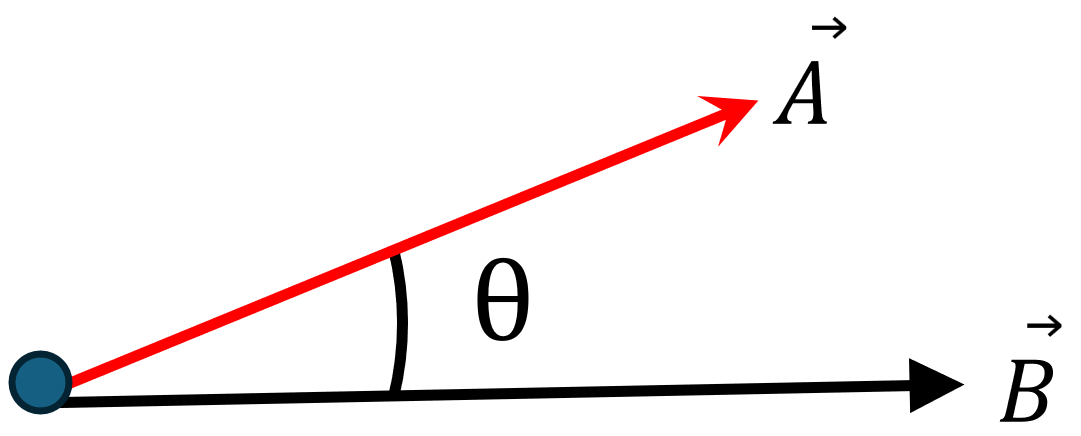
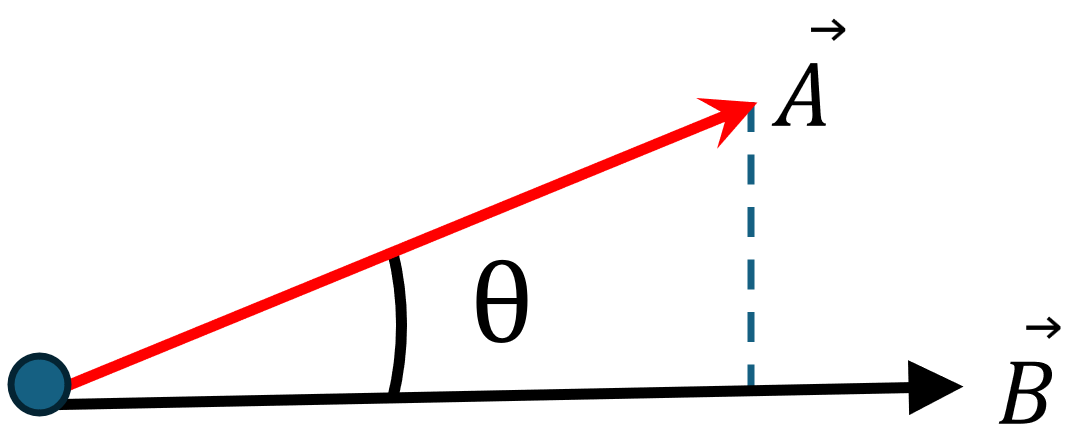
Nuevas preguntas teoría

diff --git a/Class_Teoria.py b/Class_Teoria.py
@@ -16,12 +16,12 @@ class Theory:
 
     #Function to filter the theory questions according to the user's selection
     def filtrar_preguntas_teoria(preguntas_teoria, topic=None, subtopic=None):
-        preguntas_filtradas_teoria = [
+        conceptuales_filtradas = [
             pregunta for pregunta in preguntas_teoria
             if (topic is None or pregunta.topic == topic) and
                (subtopic is None or pregunta.subtopic == subtopic)
         ]
-        return preguntas_filtradas_teoria
+        return conceptuales_filtradas
 
 conceptuales = [
     #=================================================EQUILIBRIO DE PARTÍCULAS===================================================
@@ -126,7 +126,10 @@ conceptuales = [
         opcion_4 = "II, III",
         opcion_correcta = "I, IV",
         respuesta_P1 = """
-        Por definición, la magnitud de un vector unitario es siempre 1. El vector unitario se obtiene mediante la normalización de un vector, el cual consiste en dividir sus componentes entre su magnitud con el objetivo de obtener su dirección. Asimismo, como un vector unitario representa la dirección de un vector, encontrar su dirección es equivalente a encontrar su vector unitario.
+        Las opciones correctas son I, IV:
+
+        I. Por definición, la magnitud de un vector unitario es siempre 1.        
+        IV. El vector unitario se obtiene mediante la normalización de un vector, el cual consiste en dividir sus componentes entre su magnitud con el objetivo de obtener su dirección. Asimismo, como un vector unitario representa la dirección de un vector, encontrar su dirección es equivalente a encontrar su vector unitario.
         """,
         respuesta_P2 = "",
         ),    
@@ -194,8 +197,10 @@ conceptuales = [
         opcion_4 = "II, III",
         opcion_correcta = "II, IV",
         respuesta_P1 = """
-        El producto punto (o producto escalar) permite determinar el ángulo entre dos vectores porque está directamente relacionado con el coseno del ángulo entre ellos. Y, al despejar el ángulo de la ecuación respectiva este puede conocerse.
-        Así mismo, permite encontrar la proyección entre 2 vectores dado que relaciona la dirección entre ellos con sus magnitudes. De tal forma que, si se quiere encontrar la magnitud de un vector proyectado solo el otro basta con calcular la multiplicación entre la magnitud del vector que se quiere proyectar por el coseno del ángulo que tiene este con el vector sobre el cual quiere proyectarse.
+        Las opciones correctas son II, IV.
+        
+        II. El producto punto (o producto escalar) permite determinar el ángulo entre dos vectores, dado que, está directamente relacionado con el coseno del ángulo entre ellos ($\\overrightarrow{{A}} \\cdot \\overrightarrow{{B}} = |\\overrightarrow{{A}}||\\overrightarrow{{B}}|cos(\\theta)$). Al despejar el ángulo ($\\theta$) de la ecuación, este puede conocerse.       
+        IV. El producto punto permite encontrar la proyección de un vector sobre otro, dado que, permite encontrar la proyección de un vector sobre el otro ($\\overrightarrow{{A}} \\cdot cos(\\theta))$ en su misma dirección ($\\overrightarrow{{B}}$). 
         """,
         respuesta_P2 = "",
         ),    
@@ -208,16 +213,25 @@ conceptuales = [
         enunciado = """
         ¿Cuál(es) de las siguientes afirmaciones son ciertas respecto al producto punto entre vectores?:    
         
-        $I. \\hspace{{2mm}} A \\cdot B = B \\cdot A$                       $\\hspace{{20mm}} IV. \\hspace{{2mm}} A \\cdot B \\text{{ es un escalar}}$        
-        $II. \\hspace{{2mm}} A \\cdot B \\text{{ es un vector}}$           $\\hspace{{14mm}} V. \\hspace{{2mm}} \\text{{Cuando }}A \\cdot B = 0, \\text{{el ángulo entre A y B es 45°}}$    
-        $III. \\hspace{{2mm}} A \\cdot B = -B \\cdot A$                    $\\hspace{{19mm}} VI. \\hspace{{2mm}} \\text{{Cuando }}A \\cdot B = 0, \\text{{el ángulo entre A y B es 90°}}$   
+        $\\text{{I. }} A \\cdot B = B \\cdot A$                               
+        $\\text{{II. }} A \\cdot B \\text{{ es un vector}}$           
+        $\\text{{III. }} A \\cdot B = -B \\cdot A$                      
+        $\\text{{IV. }}  A \\cdot B \\text{{ es un escalar}}$     
+        $\\text{{V. }} \\text{{Cuando }}A \\cdot B = 0, \\text{{el ángulo entre A y B es 45°}}$      
+        $\\text{{VI. }} \\text{{Cuando }}A \\cdot B = 0, \\text{{el ángulo entre A y B es 90°}}$        
         """,
-        opcion_1 = "$IV$",
-        opcion_2 = "$I, III,IV$",
-        opcion_3 = "$II, V, VI$",
-        opcion_4 = "$I, IV, VI$",
-        opcion_correcta = "$I, IV, VI$",
-        respuesta_P1 = "Las caracteristicas principales del producto punto son: es conmutativo, da como resultado un número real, es 0 cuando los ángulos son perpendiculares  ya que el cos(90°)=0.",  
+        opcion_1 = "$\\text{{IV}}$",
+        opcion_2 = "$\\text{{I, III,IV}}$",
+        opcion_3 = "$\\text{{II, V, VI}}$",
+        opcion_4 = "$\\text{{I, IV, VI}}$",
+        opcion_correcta = "$\\text{{I, IV, VI}}$",
+        respuesta_P1 = """
+        Las opciones correctas son I, IV, VI. Dentro de las características principales del producto punto se encuentran:  
+
+        1. Es conmutativo.    
+        2. Su resultado es un número real.     
+        3. Su resultado es 0 cuando los ángulos son perpendiculares, dado que, $cos(90°)=0$.     
+        """,  
         respuesta_P2 = "",
         ),
 
@@ -232,7 +246,9 @@ conceptuales = [
         opcion_3 = "$\\theta_{radianes}$ = $\\theta_{grados} \cdot \\pi$",
         opcion_4 = "$\\theta_{radianes}$ = $\\theta_{grados}\cdot 2\cdot\pi$",
         opcion_correcta = "$\\theta_{radianes}$ = $\\theta_{grados} \cdot\\frac{\pi}{180}$",
-        respuesta_P1 = "Esta conversión se debe a que en 360° se recorren 2 \pi$ radianes de longitud",
+        respuesta_P1 = """
+        La respuesta correcta es: $\\theta_{radianes}$ = $\\theta_{grados} \cdot\\frac{\pi}{180}$. Dado que, en $360°$ se recorren $2\\pi$ radianes de longitud.
+        """,
         respuesta_P2 = "",
         ),  
 
@@ -242,13 +258,13 @@ conceptuales = [
         topic = "Equilibrio de partículas",
         subtopic = "Vectores",
         enunciado = "El producto punto se calcula a partir de las siguientes expresiones equivalentes:",
-        opcion_1 = "A \\cdot B = ABcos(\\theta)$ = a_xb_x + a_yb_y + a_zb_z$",
-        opcion_2 = "A \\cdot B = ABcos(\\theta)$ = a_xb_y - a_yb_x$",
-        opcion_3 = "A \\cdot B = ABsen(\\theta)$ = a_xb_x + a_yb_y + a_zb_z$",
-        opcion_4 = "A \\cdot B = ABsen(\\theta)$ = a_xb_y - a_yb_x$",
-        opcion_correcta = "A \\cdot B = ABcos(\\theta)$ = a_xb_x + a_yb_y + a_zb_z$",
-        respuesta_P1 = "El producto punto relaciona las magnitudes de los vectores con  el coseno del ángulo entre ellos",
-        respuesta_P2 = "Cuando no se conoce el ángulo entre los dos vectores el producto punto puede calcularse como la suma de la multiplicación componente a componente",
+        opcion_1 = "$A \\cdot B = ABcos(\\theta)$ = $a_xb_x + a_yb_y + a_zb_z$",
+        opcion_2 = "$A \\cdot B = ABcos(\\theta)$ = $a_xb_y - a_yb_x$",
+        opcion_3 = "$A \\cdot B = ABsen(\\theta)$ = $a_xb_x + a_yb_y + a_zb_z$",
+        opcion_4 = "$A \\cdot B = ABsen(\\theta)$ = $a_xb_y - a_yb_x$",
+        opcion_correcta = "$A \\cdot B = ABcos(\\theta)$ = $a_xb_x + a_yb_y + a_zb_z$",
+        respuesta_P1 = "El producto punto relaciona las magnitudes de los vectores con  el coseno del ángulo entre ellos ($ABcos(\\theta)$). Cuando no se conoce el ángulo entre los dos vectores, el producto punto puede calcularse como la suma de la multiplicación componente a componente ($a_xb_x + a_yb_y + a_zb_z$).",
+        respuesta_P2 = "",
         ), 
     
     Theory(#13
@@ -257,12 +273,193 @@ conceptuales = [
         topic = "Equilibrio de partículas",
         subtopic = "Vectores",
         enunciado ="El producto cruz es utilizado para:", 
-        opcion_1 = "Permite determinar la magnitud de la suma entre dos vectores.",
-        opcion_2 = "Permite determinar el ángulo entre 2 vectores.",
-        opcion_3 = "Permite encontrar la proyección de un vector sobre el otro.",
-        opcion_4 = "Permite calcular un vector perpendicular al plano formado por los dos vectores.",
-        opcion_correcta = "Permite calcular un vector perpendicular al plano formado por los dos vectores.",
-        respuesta_P1 = "El producto punto relaciona las magnitudes de los vectores con  el coseno del ángulo entre ellos",
-        respuesta_P2 = "Al realizar producto cruz entre dos vectores se obtiene siempre un vector perpendicular al plano formado entre estos el cual es un indicador, por ejemplo, de la dirección del momento",
+        opcion_1 = "Determinar la magnitud de la suma entre dos vectores.",
+        opcion_2 = "Determinar el ángulo entre 2 vectores.",
+        opcion_3 = "Encontrar la proyección de un vector sobre el otro.",
+        opcion_4 = "Calcular un vector perpendicular al plano formado por los dos vectores.",
+        opcion_correcta = "Calcular un vector perpendicular al plano formado por los dos vectores.",
+        respuesta_P1 = "El producto cruz relaciona las magnitudes de dos vectores con el seno del ángulo entre ellos. El resultado del producto cruz entre dos vectores es un vector que es perpendicular al plano formado entre estos. Este vector resultante, indica por ejemplo, la dirección del momento.",
+        respuesta_P2 = "",
         ),     
+
+    #------------------------------------------------------ Equilibrio ----------------------------------------------------------
+    #-------------------------------------------------       12000##0         ---------------------------------------------------
+    
+     Theory(#1
+         code = 1200010, 
+         no_pregunta = 1,
+         topic = "Equilibrio de partículas",
+         subtopic = "Equilibrio",
+         enunciado = "Una partícula se encuentra en equilibrio cuando:", 
+         opcion_1 = "La suma de las fuerzas en todas las direcciones es cero.",
+         opcion_2 = "La fuerza resultante tiene la misma magnitud en los tres ejes.",
+         opcion_3 = "La partícula está en movimiento constante.",
+         opcion_4 = "La suma de los momentos alrededor de la partícula es distinta de cero.",
+         opcion_correcta = "La suma de las fuerzas en todas las direcciones es cero.",
+         respuesta_P1 = "Cuando una partícula está en reposo o se mueve con velocidad constante, se dice que está en equilibrio. Para cumplir esta condición se requiere que todas las fuerzas que actúan sobre la partícula formen una fuerza resultante nula.",
+         respuesta_P2 = "",
+         ),
+     
+     Theory(#2
+         code = 1200020, 
+         no_pregunta = 2,
+         topic = "Equilibrio de partículas",
+         subtopic = "Equilibrio",
+         enunciado ="¿Cuáles son los pasos que deben llevarse a cabo para hacer sumatoria de fuerzas?", 
+         opcion_1 = "Hacer un diagrama de cuerpo libre dibujando el escenario real y luego, hacer una sumatoria de la magnitud de las fuerzas actuantes sobre el cuerpo sin importar la dirección en la que se encuentren. ",
+         opcion_2 = "Hacer un diagrama de cuerpo libre dibujando todas las fuerzas aplicadas sobre un punto y luego, hacer una sumatoria de la magnitud de las fuerzas actuantes sobre el cuerpo sin importar la dirección en la que se encuentren. ",
+         opcion_3 = "Hacer un diagrama de cuerpo libre dibujando el escenario real. Luego, dividir las fuerzas con sus componentes en los ejes x, y, z y hacer sumatoria en estos ejes con las fuerzas correspondientes. ",
+         opcion_4 = "Hacer un diagrama de cuerpo libre dibujando todas las fuerzas aplicadas sobre un punto. Luego, dividir las fuerzas con sus componentes en los ejes x, y, z y hacer sumatoria en estos ejes con las fuerzas correspondientes. ",
+         opcion_correcta = "Hacer un diagrama de cuerpo libre dibujando todas las fuerzas aplicadas sobre un punto. Luego, dividir las fuerzas con sus componentes en los ejes x, y, z y hacer sumatoria en estos ejes con las fuerzas correspondientes. ",
+         respuesta_P1 = "El primer paso para el análisis es realizar un diagrama de cuerpo libre (DCL) el cual consiste en dibujar el cuerpo como un punto aislado y situar sobre él todas las fuerzas externas que lo afectan. Posteriormente, se agrupan las fuerzas por ejes (X,Y,Z) y se hacen las sumatorias teniendo en cuenta una referencia de ejes positivos impuesta y las direcciones dadas en el DCL.",
+         respuesta_P2 = "",
+         ),
+     
+     Theory(#3
+         code = 1200030, 
+         no_pregunta = 3,
+         topic = "Equilibrio de partículas",
+         subtopic = "Equilibrio",
+         enunciado = """
+         La sumatoria de fuerzas igualada a cero permite:  
+
+         I.	Encontrar la ubicación de una fuerza que permite que la partícula se encuentre en equilibrio.  
+         II. Conocer la magnitud de una fuerza desconocida para que la partícula se encuentre en equilibrio.   
+         III. Encontrar las reacciones de una viga.    
+         IV. Determinar la dirección de una fuerza desconocida para que el sistema se encuentre en equilibrio.     
+         V. Predecir la dirección de movimiento del sistema en estudio.    
+         VI. Todas las anteriores.    
+         """,
+         opcion_1 = "I, II, V",
+         opcion_2 = "VI",
+         opcion_3 = "II, III, IV",
+         opcion_4 = "II, III",
+         opcion_correcta = "Solo II y III",
+         respuesta_P1 = """
+         Con sumatorias de fuerzas no es posible encontrar la ubicación de una fuerza ya que no involucra distancias. Contrario a la sumatoria de momentos que si permite lo dicho en la opción I.
+         Además, con la sumatoria de fuerzas puede definirse el sentido de una fuerza particular pero no la dirección de movimiento del sistema. Esto debido a que, al igualar la sumatoria a 0 se asume que el sistema se encuentra en reposo descartandose la opció V.
+         Por el contrario la sumatoria de fuerzas igual a 0 permite encontar la magnitud y dirección de una fuerza desconocida que permite mantener el equilibrio por medio del despeje de las fuerzas, sus componentes o sus ángulos
+         """,
+         respuesta_P2 = "",
+         ),    
+         
+         Theory(#4
+             code = 1200040, 
+             no_pregunta = 4,
+             topic = "Equilibrio de partículas",
+             subtopic = "Equilibrio",
+             enunciado ="Considere el sistema mostrado en la figura e indique la sumatoria de fuerzas correcta:",
+             opcion_1 ="""
+             " $ \\sum F_x = F_2 \left(\frac{4}{5}\right) \sin(\\theta_3) + F_1 \cos(\\theta_1)$ \\
+             $ \\sum F_y = F_2 \left(\frac{4}{5}\right) \cos(\\theta_3) + F_1 \cos(\\theta_2)$ \\
+             $ \\sum F_z = F_2 \left(\frac{3}{5}\right) - F_1 \left(\frac{12}{13}\right) $ \\
+             """,
+             opcion_2 ="""
+             $\\sum F_x = F_2 \left(\frac{4}{5}\right) \sin(\\theta_3) + F_1 \left(\frac{5}{13}\right) \cos(\\theta_1)$ \\
+             $$ \\sum F_y = F_2 \left(\frac{4}{5}\right) \cos(\\theta_3) + F_1 \left(\frac{5}{13}\right) \sin(\\theta_1)$ \\
+             $$ \\sum F_z = F_2 \left(\frac{3}{5}\right) - F_1 \left(\frac{12}{13}\right) $ \\
+             """,
+             opcion_3 = """
+             $\\sum F_x = F_2 \left(\frac{3}{5}\right) \sin(\\theta_2) + F_1 \left(\frac{12}{13}\right) \sin(\\theta_1) $ \\
+             $\\sum F_y = F_2 \left(\frac{4}{5}\right) \cos(\\theta_2) + F_1 \left(\frac{5}{13}\right) \cos(\\theta_1) $ \\
+             $\\sum F_z = F_2 \left(\frac{4}{5}\right) + F_1 \left(\frac{5}{13}\right) $ \\
+             """,
+             opcion_4 ="""
+             $ \\sum F_x = F_2 \left(\frac{4}{5}\right) \sin(\\theta_3) + F_1 \cos(\\theta_1) $ \\
+             $ \\sum F_y = F_2 \left(\frac{4}{5}\right) \cos(\\theta_3) - F_1 \cos(\\theta_1) $ \\
+             $ \\sum F_z = F_2 \left(\frac{3}{5}\right) + F_1 \left(\frac{12}{13}\right) $ \\
+             
+             """,
+             opcion_correcta = """
+             " $ \\sum F_x = F_2 \left(\frac{4}{5}\right) \sin(\\theta_3) + F_1 \cos(\\theta_1)$ \\
+             $ \\sum F_y = F_2 \left(\frac{4}{5}\right) \cos(\\theta_3) + F_1 \cos(\\theta_2)$ \\
+             $ \\sum F_z = F_2 \left(\frac{3}{5}\right) - F_1 \left(\frac{12}{13}\right) $ \\
+             """,
+             respuesta_P1 = "Note que para F_1 se utilizan los cosenos directores dado que se tienen los ángulos del vector con los ejes X e Y. Y, para F_2 se aplica la descomposición por coordenadas cartesianas",
+             respuesta_P2 = "",
+             ),
+         
+         Theory(#5
+             code = 1200050, 
+             no_pregunta = 5,
+             topic = "Equilibrio de partículas",
+             subtopic = "Equilibrio",
+             enunciado ="Considere el sistema mostrado en la figura e indique cual sería el diagrama de cuerpo libre equivalente teniendo en cuenta el mismo sistema de coordenadas.", 
+             opcion_1 = "Opción 1.",
+             opcion_2 = "Opción 2.",
+             opcion_3 = "Opción 3.",
+             opcion_4 = "Opción 4.",
+             opcion_correcta = "Opción 1.",
+             respuesta_P1 = "El vector normal (N) siempre es un vector perpendicuar a la superficie, el vector de peso (W) es un vector que siempre se dirige hacia abajo y el vector de fricción (f) siempre tiene dirección contraria al desplazamiento",
+             respuesta_P2 = "",
+             ),
+         
+         Theory(#6
+             code = 1200060, 
+             no_pregunta = 6,
+             topic = "Equilibrio de partículas",
+             subtopic = "Equilibrio",
+             enunciado ="Es correcto afirmar que, en una sumatoria de fuerzas, el valor encontrado para una fuerza desconocida siempre será mayor a cero.", 
+             opcion_1 = "Sí ya que, si la solución produce un resultado menor a 0, el sistema no está en equilibrio.",
+             opcion_2 = "No ya que, si la solución produce un resultado negativo, esto indica que el sentido de la fuerza es el inverso del mostrado sobre el diagramade cuerpo libre.",
+             opcion_3 = "Sí ya que, un valor negativo en el resultado significaría un error de cálculo.",
+             opcion_4 = "No ya que, pueden existir resultados negativos, pero, como de la sumatoria de fuerzas solo importa la magnitud del vector, el signo puede ignorarse.",
+             opcion_correcta = "No ya que, si la solución produce un resultado negativo, esto indica que el sentido de la fuerza es el inverso del mostrado sobre el diagramade cuerpo libre.",
+             respuesta_P1 = "Dado que la sumatoria de fuerzas se realiza teniendo en cuenta suposiciones de dirección en fuerzas desconocidas presentes en el diagrama de cuerpo libre, es posible ontener escalares negativos y estos indican que el sentido correcto es el opuesto al considerado por suposición",
+             respuesta_P2 = "",
+             ),
+         
+         Theory(#7
+             code = 1200070, 
+             no_pregunta = 7,
+             topic = "Equilibrio de partículas",
+             subtopic = "Equilibrio",
+             enunciado ="""
+             Considerando el siguiente sistema conformado por dos alambres con resorte que soportan un bloque de acero, ¿Cuál(es) de las siguientes afirmaciones es(son) falsa(s)?.
+             
+             I.	El diagrama de cuerpo libre para el sistema con resorte será el mismo que el del sistema sin resorte.
+             II.	Es posible hallar el alargamiento del resorte del resorte dividiendo la fuerza del alambra entre la constante de rigidez (k) del resorte respectivo.
+             III.	El sistema pierde el estado de equilibrio por efecto de los resortes. 
+             IV.	En la sumatoria de fuerzas es necesario multiplicar las tensiones de los alambres por las constantes de rigidez respectivas (k).   
+             
+             """,
+             opcion_1 = "I, II.",
+             opcion_2 = "Solamente II.",
+             opcion_3 = "III, IV.",
+             opcion_4 = "I, II.",
+             opcion_correcta = "III, IV.",
+             respuesta_P1 = "Si el problema implica un resorte elástico lineal, entonces el alargamiento o la compresión s del resorte pueden ser relacionado con la fuerza aplicada usando F=ks.",
+             respuesta_P2 = "",
+             ),
+         
+         Theory(#8
+             code = 1200080, 
+             no_pregunta = 8,
+             topic = "Equilibrio de partículas",
+             subtopic = "Equilibrio",
+             enunciado ="Considerando la polea A, ¿Cuál de las siguientes sumatorias en Y es correcta?", 
+             opcion_1 = "$ \\sum F_y = F_{1} + F_{2} + F_{3} - W = 3 F_{1} - W = 0  $",
+             opcion_2 = "$ \\sum F_y =  \left(\frac{F_{1}}{2}\right)+ \left(\frac{F_{2}}{2}\right) - F_{3} - W = 0 $",
+             opcion_3 = "$ \\sum F_y =  \left(\frac{F_{1}}{2}\right)+ \left(\frac{F_{2}}{2}\right) - F_{3}  = 0 $",
+             opcion_4 = "$ \\sum F_y = F_{1} + F_{2} - W = 2 F_{1} - W = 0  $",
+             opcion_correcta = "$ \\sum F_y = F_{1} + F_{2} - W = 2 F_{1} - W = 0  $",
+             respuesta_P1 = "Note que la sumatoria en Y sobre la poleo no incluye a F_3 y, además, en las poleas el cable es continuo y por ende F_1 = F_2",
+             respuesta_P2 = "",
+             ),
+         
+         Theory(#9
+             code = 1200090, 
+             no_pregunta = 9,
+             topic = "Equilibrio de partículas",
+             subtopic = "Equilibrio",
+             enunciado ="Considerando la siguiente figura, la sumatoria de fuerzas que permite encontrar el valor del peso (W) del ancla es:",
+             opcion_1 = "$\\sum F_z = T_{BA} \left(\frac{A_z}{\sqrt{(-B_x)^2 + (-B_y)^2 + (A_Z)^2}}\right) - W = 0 $",
+             opcion_2 = "$\\sum F_y = T_{BA} \left(\frac{-B_y}{\sqrt{(-B_x)^2 + (-B_y)^2 + (A_Z)^2}}\right) - W = 0 $",
+             opcion_3 = "$\\sum F_x = T_{BA} \left(\frac{-B_x}{\sqrt{(-B_x)^2 + (-B_y)^2}}\right) - W = 0 $",
+             opcion_4 = "$\\sum F_z = T_{BA} \left(\frac{A_z}{\sqrt{(-B_x)^2 + (-B_y)^2}}\right) - W = 0 $",
+             opcion_correcta = "$\\sum F_z = T_{BA} \left(\frac{A_z}{\sqrt{(-B_x)^2 + (-B_y)^2 + (A_Z)^2}}\right) - W = 0 $",
+             respuesta_P1 = "Se hace sumatortia en Z ya que es en este eje donde se encuentra el peso. Se evidencia que solo existen dos fuerzas actuando sobre el ese Z que son: una componente de la tensión generaada por el cable BA y el peso. La componente de la tensión es igual a la magnitud de la tensión de dicho cable multiplicada por la componente k de su vector unitario",
+             respuesta_P2 = "",
+             ),
+
 ]

diff --git a/Interface.py b/Interface.py
@@ -479,12 +479,11 @@ if authenticate_user():
                 subtopic=st.sidebar.selectbox("Seleccione el subtema", options=["Vectores","Equilibrio"])
             if topic == "Momento":
                 subtopic=st.sidebar.selectbox("Seleccione el subtema", options=["Momento"])
-                respuesta_usuario['subtopic'] = subtopic
 
             if consent:
                 log_event(st.session_state["username"], "theory_section_accessed", {})
-            # Aquí puedes añadir el contenido de la sección de teoría
-            #st.write("Contenido de la sección de teoría aún no implementado.")
+            respuesta_usuario['subtopic'] = subtopic
+
         else:
             st.sidebar.header("Práctica")
             complexity = st.sidebar.radio("Nivel de dificultad", options=["Fácil", "Medio", "Díficil"])
@@ -1053,9 +1052,22 @@ if authenticate_user():
                         st.image(teoria_preguntas[5], width=225)
                     if pregunta_no == 8: 
                         st.image(teoria_preguntas[6], width=250)  
-                    if pregunta_no == 9: 
+                    if pregunta_no == 9 or pregunta_no == 12: 
                         st.image(teoria_preguntas[7], width=250)  
-                    
+                    if pregunta_no == 11: 
+                        st.image(teoria_preguntas[8], width=550)              
+        return
+
+    #Función para mostrar la imagen de la respuesta
+    def filtrar_imagenes_respuestas_teoria_P1(pregunta_no, subtopic):
+        left_col, center_col, right_col = st.columns(3)
+
+        with left_col:
+                if subtopic == "Vectores":
+                    if pregunta_no == 12: 
+                        st.image(teoria_respuestas[0],width=200)
+                    if pregunta_no == 13: 
+                        st.image(teoria_respuestas[1],width=250)
         return
 
     def generate_theory_questions():
@@ -1079,6 +1091,7 @@ if authenticate_user():
             st.write(text_respuesta)
             if is_correct == 1:
                 st.write(conceptuales_filtradas[st.session_state.pregunta_actual].respuesta_P1)
+                filtrar_imagenes_respuestas_teoria_P1(conceptuales_filtradas[st.session_state.pregunta_actual].no_pregunta, conceptuales_filtradas[st.session_state.pregunta_actual].subtopic)
 
     def main():
         if way == "Práctica":

diff --git a/Imagenes.py b/Imagenes.py
@@ -164,5 +164,11 @@ teoria_preguntas =[
 "./Imagenes/Teoria_Preguntas/EQ/V/T_EQ_V_6.png", #[4] 
 "./Imagenes/Teoria_Preguntas/EQ/V/T_EQ_V_7.png", #[5] 
 "./Imagenes/Teoria_Preguntas/EQ/V/T_EQ_V_8.png", #[6] 
-"./Imagenes/Teoria_Preguntas/EQ/V/T_EQ_V_9.png", #[7]  
+"./Imagenes/Teoria_Preguntas/EQ/V/T_EQ_V_9.png", #[7]
+"./Imagenes/Teoria_Preguntas/EQ/V/T_EQ_V_11.png", #[8]  
+]
+
+teoria_respuestas =[
+"./Imagenes/Teoria_Respuestas/EQ/V/RT_EQ_V_1.png", #[0] 
+"./Imagenes/Teoria_Respuestas/EQ/V/RT_EQ_V_2.png", #[1] 
 ]
